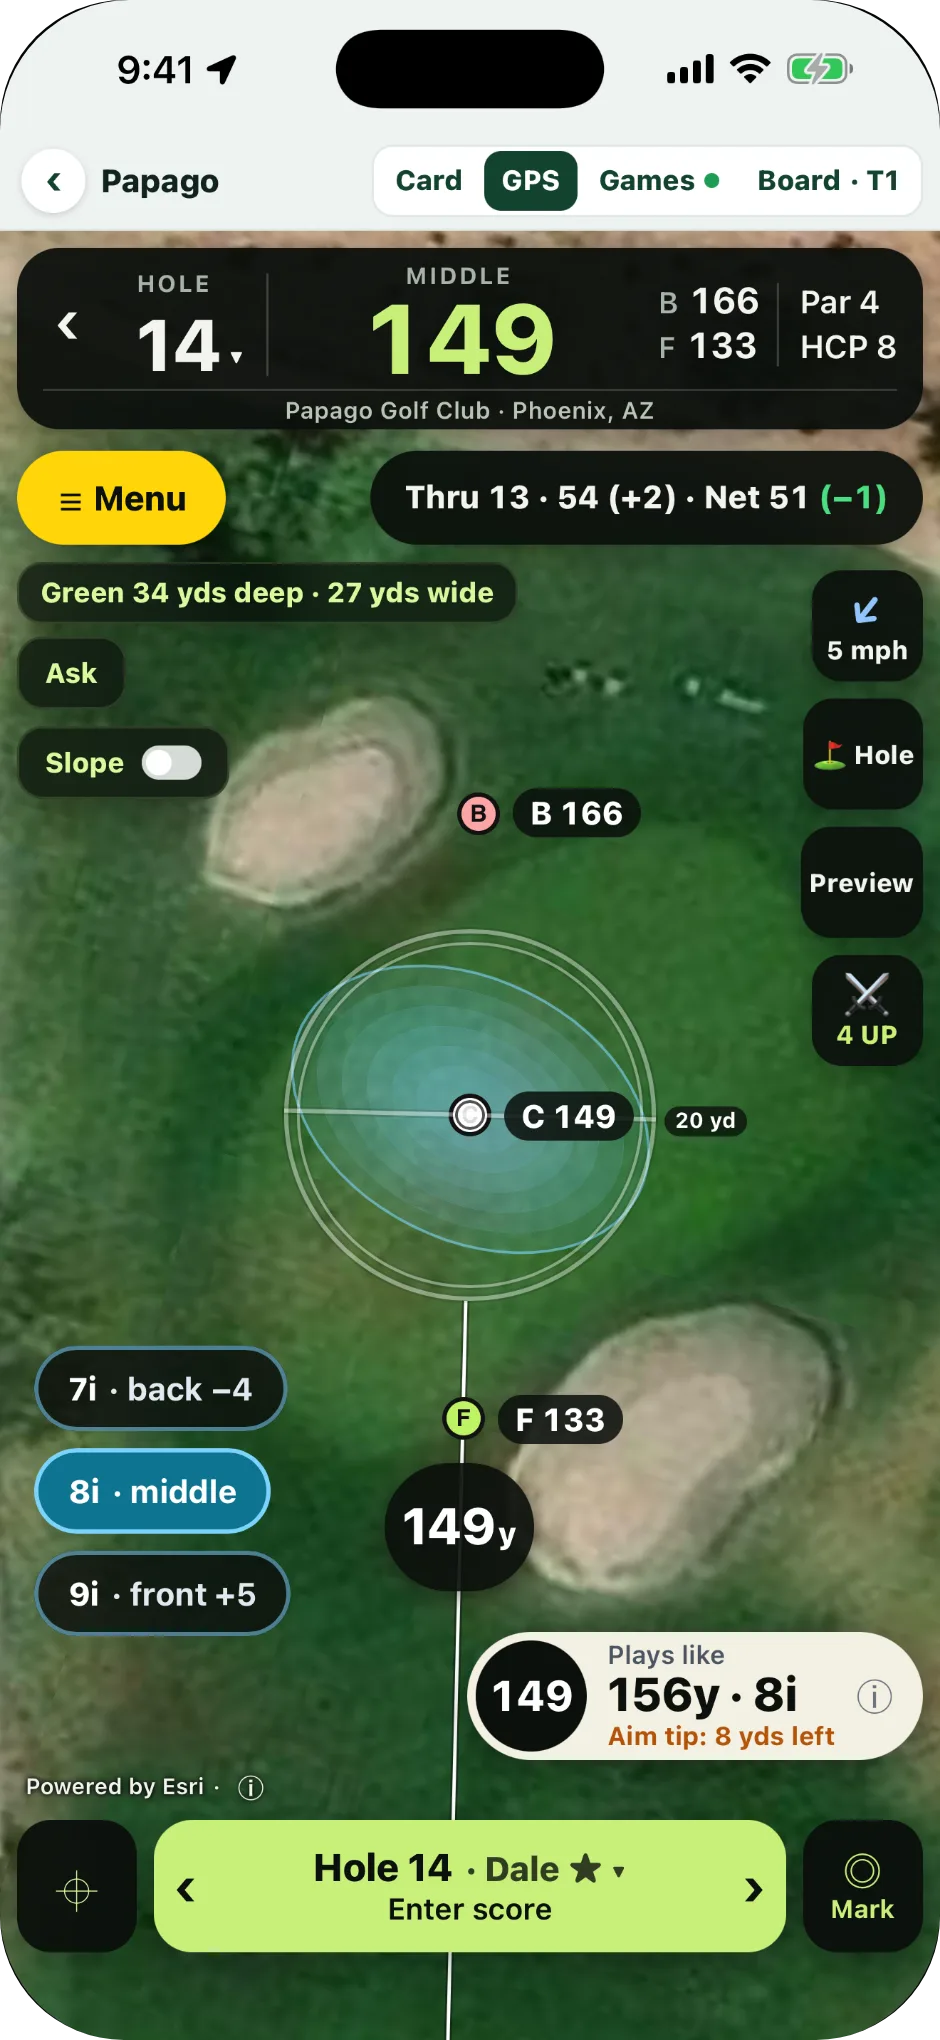
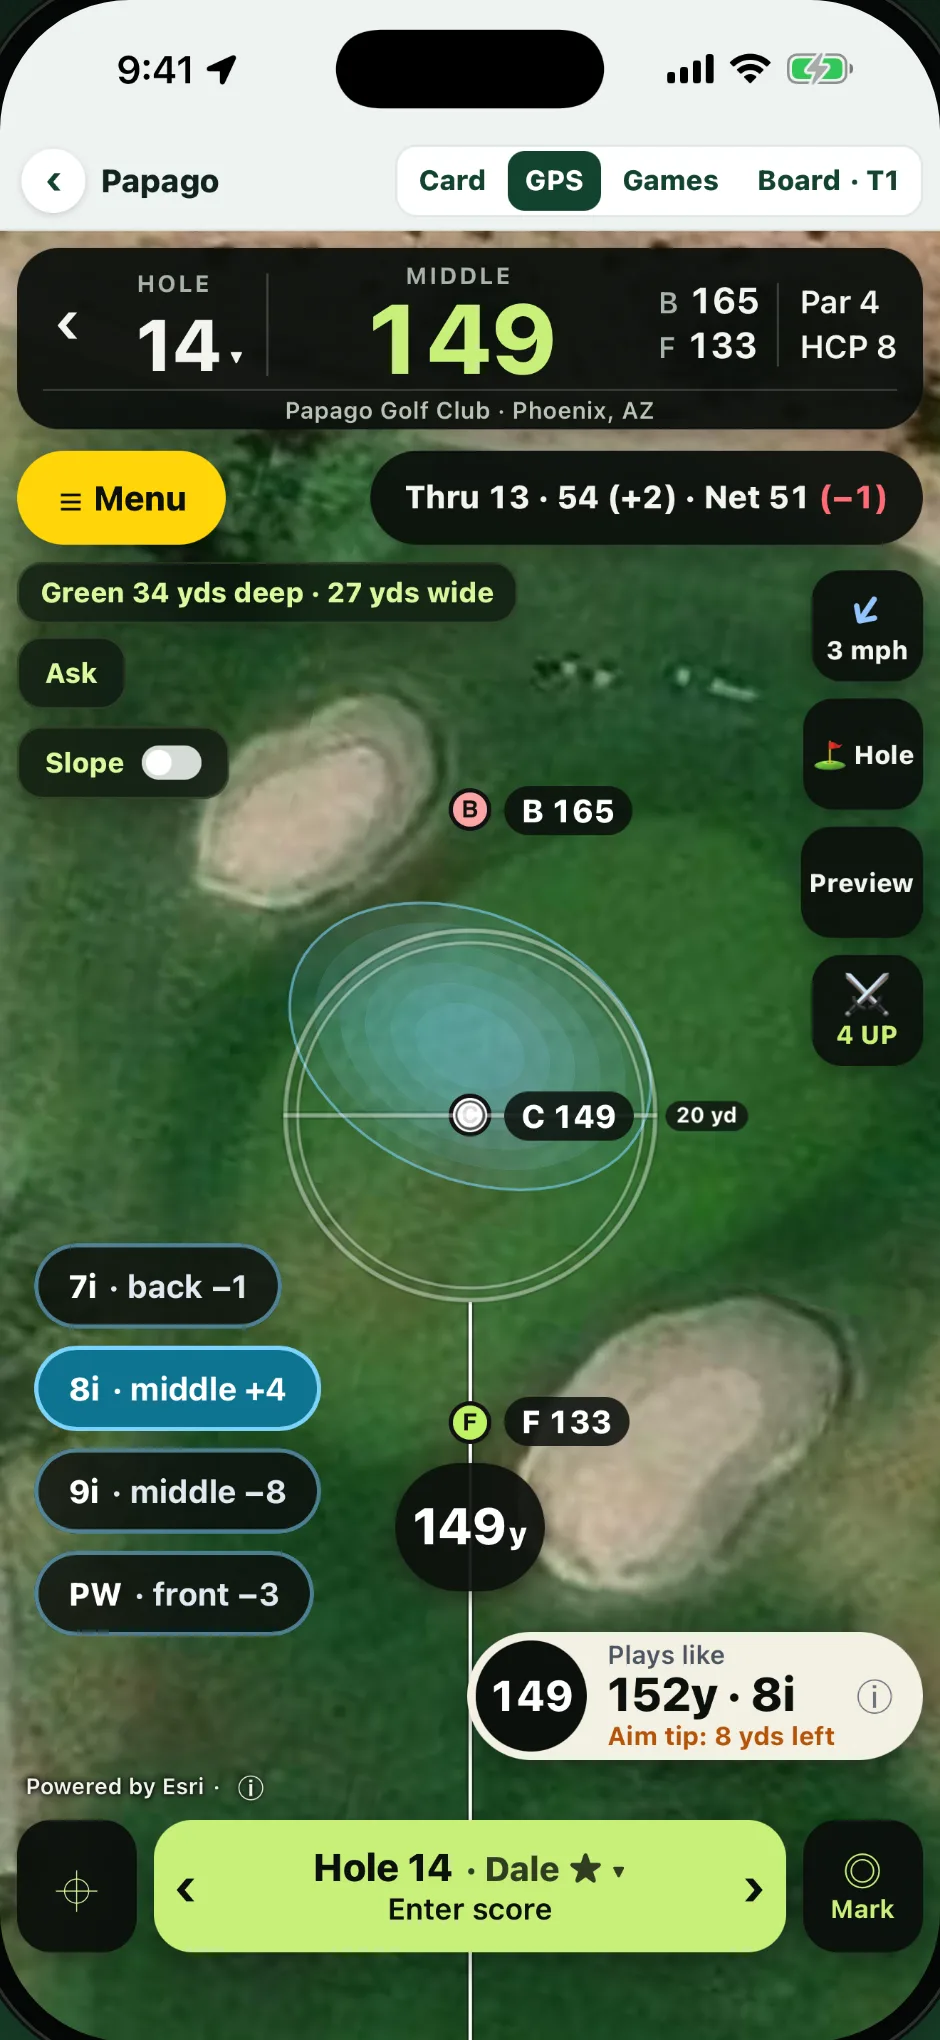
Old slope pictures replaced (Manny 2026-11-15 4:42 PM, ADVISOR-20261115-1643): green-slope, green-size and plays-like are the 2.0.8 App Store frames 07 (smooth slope, ring hidden) and 06 (aim tip), under par in red; alts and the screens manifest follow (the old entries kept under "previous")
The 2.0.7 frames drew the old blocky slope with the target ring over the arrows and Net 35 (-1) / Net 51 (-1) in green; the 2.0.7 web capture of plays-like showed Net 3 (-2) in green. The site shows under par in red only. green-size and plays-like share the 06 frame until a 2.0.8 web capture exists. Still green and not yet replaced (no 2.0.8 picture covers them): ask-caddie, group-scoring, hazards (2.0.7 web-app captures; need a 2.0.8 web capture session).
hardpan-home.html is not in sw.js's shell list: no cache bump. Guards: web_e_features 24/0, marketing_home 46/0, hardpan_home_52a 7/0, web_e_features_chrome 6/0.

diff --git a/hardpan-home.html b/hardpan-home.html
@@ -522,14 +522,14 @@
     <div class="grp" id="g-new">
         <div class="ghd"><h2>New in 2.0.7</h2><span class="gn">4 &middot; swipe &rarr;</span><span class="arrows"><button type="button" class="ga" data-dir="-1" aria-label="New in 2.0.7: earlier cards">&lsaquo;</button><button type="button" class="ga" data-dir="1" aria-label="New in 2.0.7: more cards">&rsaquo;</button></span></div>
         <p class="gln">What changed in this update.</p>
-        <ul class="row" aria-label="New in 2.0.7 features"><li class="fc" id="f-round-tabs" data-key="round-tabs"><div class="cap"><span class="eb">ROUND TABS</span><h3>Card, GPS, Games, Board.</h3><p>Four tabs on top of every round. The map opens on the whole hole.</p></div><button type="button" class="ph" data-open="round-tabs" aria-label="See Card, GPS, Games, Board full screen"><span class="s"><img src="/media/screens/round-tabs-400.webp" srcset="/media/screens/round-tabs-400.webp 400w, /media/screens/round-tabs-940.webp 940w" sizes="(max-width:700px) 200px, 206px" width="940" height="2040" loading="lazy" decoding="async" alt="The GPS map on hole 2 at Papago, opened on the whole hole with the tee and the green both on screen: 380 to the middle, and the Card, GPS, Games and Board tabs on top."></span></button></li><li class="fc" id="f-green-slope" data-key="green-slope"><div class="cap"><span class="eb">GREEN SLOPE</span><h3>Read the green.</h3><p>Shading, contours and downhill arrows on the map, with the Slope switch under Ask.</p></div><button type="button" class="ph" data-open="green-slope" aria-label="See Read the green full screen"><span class="s"><img src="/media/screens/green-slope-400.webp" srcset="/media/screens/green-slope-400.webp 400w, /media/screens/green-slope-940.webp 940w" sizes="(max-width:700px) 200px, 206px" width="940" height="2040" loading="lazy" decoding="async" alt="Papago hole 10 near the green with Slope on: shading and contours on the green, arrows that run downhill, 55 to the middle, and the Slope switch under Ask."></span></button></li><li class="fc" id="f-green-size" data-key="green-size"><div class="cap"><span class="eb">GREEN SIZE</span><h3>How big is the green?</h3><p>Deep and wide along your line of play, the same from the tee or the fairway.</p></div><button type="button" class="ph" data-open="green-size" aria-label="See How big is the green? full screen"><span class="s"><img src="/media/screens/green-size-400.webp" srcset="/media/screens/green-size-400.webp 400w, /media/screens/green-size-940.webp 940w" sizes="(max-width:700px) 200px, 206px" width="940" height="2040" loading="lazy" decoding="async" alt="Papago hole 14, 149 to the middle: the line Green 34 yds deep and 27 yds wide on the map, and Plays like 156 with an 8-iron."></span></button></li><li class="fc" id="f-team-card" data-key="team-card"><div class="cap"><span class="eb">TEAM CARD</span><h3>Your team card, in the app.</h3><p>Card, Board and GPS on one card. Scan your team’s QR right in HardPan.</p></div><button type="button" class="ph" data-open="team-card" aria-label="See Your team card, in the app full screen"><span class="s"><img src="/media/screens/team-card-400.webp" srcset="/media/screens/team-card-400.webp 400w, /media/screens/team-card-940.webp 940w" sizes="(max-width:700px) 200px, 206px" width="940" height="2040" loading="lazy" decoding="async" alt="The Desert Classic team card for Team 4 in the app: the Card, Board and GPS switch, Hole 8 · Par 5 next to play, the team score with minus and plus, and Save · Next hole."></span></button></li></ul>
+        <ul class="row" aria-label="New in 2.0.7 features"><li class="fc" id="f-round-tabs" data-key="round-tabs"><div class="cap"><span class="eb">ROUND TABS</span><h3>Card, GPS, Games, Board.</h3><p>Four tabs on top of every round. The map opens on the whole hole.</p></div><button type="button" class="ph" data-open="round-tabs" aria-label="See Card, GPS, Games, Board full screen"><span class="s"><img src="/media/screens/round-tabs-400.webp" srcset="/media/screens/round-tabs-400.webp 400w, /media/screens/round-tabs-940.webp 940w" sizes="(max-width:700px) 200px, 206px" width="940" height="2040" loading="lazy" decoding="async" alt="The GPS map on hole 2 at Papago, opened on the whole hole with the tee and the green both on screen: 380 to the middle, and the Card, GPS, Games and Board tabs on top."></span></button></li><li class="fc" id="f-green-slope" data-key="green-slope"><div class="cap"><span class="eb">GREEN SLOPE</span><h3>Read the green.</h3><p>Shading, contours and downhill arrows on the map, with the Slope switch under Ask.</p></div><button type="button" class="ph" data-open="green-slope" aria-label="See Read the green full screen"><span class="s"><img src="/media/screens/green-slope-400.webp" srcset="/media/screens/green-slope-400.webp 400w, /media/screens/green-slope-940.webp 940w" sizes="(max-width:700px) 200px, 206px" width="940" height="2040" loading="lazy" decoding="async" alt="Papago hole 10 near the green with Slope on: smooth shading, contour lines and arrows that run downhill, the target ring hidden, 55 to the middle, Thru 9 · 38 (+2) · Net 35 (−1) with the under-par number in red, and the Slope switch under Ask."></span></button></li><li class="fc" id="f-green-size" data-key="green-size"><div class="cap"><span class="eb">GREEN SIZE</span><h3>How big is the green?</h3><p>Deep and wide along your line of play, the same from the tee or the fairway.</p></div><button type="button" class="ph" data-open="green-size" aria-label="See How big is the green? full screen"><span class="s"><img src="/media/screens/green-size-400.webp" srcset="/media/screens/green-size-400.webp 400w, /media/screens/green-size-940.webp 940w" sizes="(max-width:700px) 200px, 206px" width="940" height="2040" loading="lazy" decoding="async" alt="Papago hole 14, 149 to the middle: the line Green 34 yds deep and 27 yds wide on the map, Plays like 152 with an 8-iron, and Net 51 (−1) in red."></span></button></li><li class="fc" id="f-team-card" data-key="team-card"><div class="cap"><span class="eb">TEAM CARD</span><h3>Your team card, in the app.</h3><p>Card, Board and GPS on one card. Scan your team’s QR right in HardPan.</p></div><button type="button" class="ph" data-open="team-card" aria-label="See Your team card, in the app full screen"><span class="s"><img src="/media/screens/team-card-400.webp" srcset="/media/screens/team-card-400.webp 400w, /media/screens/team-card-940.webp 940w" sizes="(max-width:700px) 200px, 206px" width="940" height="2040" loading="lazy" decoding="async" alt="The Desert Classic team card for Team 4 in the app: the Card, Board and GPS switch, Hole 8 · Par 5 next to play, the team score with minus and plus, and Save · Next hole."></span></button></li></ul>
         <div class="dots" aria-hidden="true"><i class="on"></i><i></i><i></i><i></i></div>
         <ul class="new207" aria-label="Also new in 2.0.7"><li><b>Why?</b> on the suggested fair game: the strokes, the handicaps and the game it is built on.</li><li><b>Undo</b> on the scorecard, right after each score.</li><li>A <b>Season board</b> for your weekly group, on Home.</li><li><b>Play in this event</b> on the card of an event you run.</li><li>The Home card names the course and the next hole.</li></ul>
     </div>
     <div class="grp" id="g-play">
         <div class="ghd"><h2>Play</h2><span class="gn">6 &middot; swipe &rarr;</span><span class="arrows"><button type="button" class="ga" data-dir="-1" aria-label="Play: earlier cards">&lsaquo;</button><button type="button" class="ga" data-dir="1" aria-label="Play: more cards">&rsaquo;</button></span></div>
         <p class="gln">GPS that knows the course, and your clubs.</p>
-        <ul class="row" aria-label="Play features"><li class="fc" id="f-gps" data-key="gps"><div class="cap"><span class="eb">GPS</span> <span class="clipchip">&#9654; clip 0:03</span><h3>Every yard. Every hole.</h3><p>Front, middle and back of every green on a real satellite map.</p></div><button type="button" class="ph" data-open="gps" aria-label="See Every yard. Every hole full screen"><span class="s clipslot"><img src="/media/screens/gps-400.webp" srcset="/media/screens/gps-400.webp 400w, /media/screens/gps-886.webp 886w" sizes="(max-width:700px) 200px, 206px" width="886" height="1920" loading="lazy" decoding="async" alt="The HardPan GPS map on hole 1 at Talking Stick, the whole hole from the tee: 397 yards to the middle of the green with the back and front numbers, and Card, GPS, Games and Board tabs on top."><video muted playsinline preload="none" data-src="/media/clips/gps.mp4" aria-hidden="true"></video><span class="cb">&#9654; 0:03</span></span></button></li><li class="fc" id="f-plays-like" data-key="plays-like"><div class="cap"><span class="eb">PLAYS LIKE</span><h3>Hit the number it plays.</h3><p>Wind and elevation in one yardage, plus an aim tip from your own misses.</p></div><button type="button" class="ph" data-open="plays-like" aria-label="See Hit the number it plays full screen"><span class="s"><img src="/media/screens/plays-like-400.webp" srcset="/media/screens/plays-like-400.webp 400w, /media/screens/plays-like-940.webp 940w" sizes="(max-width:700px) 200px, 206px" width="940" height="2040" loading="lazy" decoding="async" alt="The GPS map on hole 2 at Dobson Ranch: 140 to the middle, Plays like 140 with a 9-iron and the aim tip 8 yards left, the green’s size line, and the Slope switch under Ask."></span></button></li><li class="fc" id="f-hazards" data-key="hazards"><div class="cap"><span class="eb">HAZARDS</span><h3>Know what you can carry.</h3><p>Reach and carry for every bunker, and where to lay up, from where you stand.</p></div><button type="button" class="ph" data-open="hazards" aria-label="See Know what you can carry full screen"><span class="s"><img src="/media/screens/hazards-400.webp" srcset="/media/screens/hazards-400.webp 400w, /media/screens/hazards-1170.webp 1170w" sizes="(max-width:700px) 200px, 206px" width="1170" height="2532" loading="lazy" decoding="async" alt="The Hazards sheet on hole 1 at Talking Stick, over the GPS map: reach and carry yards for the bunker left and the water right, and lay-up distances with a club for each."></span></button></li><li class="fc" id="f-best-miss" data-key="best-miss"><div class="cap"><span class="eb">BEST MISS</span><h3>Miss on the right side.</h3><p>Green slope from lidar, and the safe side to miss.</p></div><button type="button" class="ph" data-open="best-miss" aria-label="See Miss on the right side full screen"><span class="s"><img src="/media/screens/best-miss-400.webp" srcset="/media/screens/best-miss-400.webp 400w, /media/screens/best-miss-940.webp 940w" sizes="(max-width:700px) 200px, 206px" width="940" height="2040" loading="lazy" decoding="async" alt="The GPS map on Papago’s first green with Slope on: the green’s slope arrows and shading, 41 to the middle, carry bunker 43, and Best miss: right."></span></button></li><li class="fc" id="f-offline" data-key="offline"><div class="cap"><span class="eb">OFFLINE MAPS</span><h3>No signal? Still every yard.</h3><p>Save a course before you go. The map works with zero bars.</p></div><button type="button" class="ph" data-open="offline" aria-label="See No signal? Still every yard full screen"><span class="s"><img src="/media/screens/offline-400.webp" srcset="/media/screens/offline-400.webp 400w, /media/screens/offline-780.webp 780w" sizes="(max-width:700px) 200px, 206px" width="780" height="1704" loading="lazy" decoding="async" alt="The course picker with a Download for offline button for Dobson Ranch Golf Course."></span></button></li><li class="fc" id="f-bag" data-key="my-bag"><div class="cap"><span class="eb">MY BAG</span><h3>Your real carries.</h3><p>Type your yardages once. HardPan picks the club from them.</p></div><button type="button" class="ph" data-open="my-bag" aria-label="See Your real carries full screen"><span class="s"><img src="/media/screens/my-bag-400.webp" srcset="/media/screens/my-bag-400.webp 400w, /media/screens/my-bag-1170.webp 1170w" sizes="(max-width:700px) 200px, 206px" width="1170" height="2532" loading="lazy" decoding="async" alt="My bag for Sam: a carry yardage for each club, Driver 245, 3-wood 225, 5-wood 210, with a switch to keep each club in the bag and Type my carries."></span></button></li></ul>
+        <ul class="row" aria-label="Play features"><li class="fc" id="f-gps" data-key="gps"><div class="cap"><span class="eb">GPS</span> <span class="clipchip">&#9654; clip 0:03</span><h3>Every yard. Every hole.</h3><p>Front, middle and back of every green on a real satellite map.</p></div><button type="button" class="ph" data-open="gps" aria-label="See Every yard. Every hole full screen"><span class="s clipslot"><img src="/media/screens/gps-400.webp" srcset="/media/screens/gps-400.webp 400w, /media/screens/gps-886.webp 886w" sizes="(max-width:700px) 200px, 206px" width="886" height="1920" loading="lazy" decoding="async" alt="The HardPan GPS map on hole 1 at Talking Stick, the whole hole from the tee: 397 yards to the middle of the green with the back and front numbers, and Card, GPS, Games and Board tabs on top."><video muted playsinline preload="none" data-src="/media/clips/gps.mp4" aria-hidden="true"></video><span class="cb">&#9654; 0:03</span></span></button></li><li class="fc" id="f-plays-like" data-key="plays-like"><div class="cap"><span class="eb">PLAYS LIKE</span><h3>Hit the number it plays.</h3><p>Wind and elevation in one yardage, plus an aim tip from your own misses.</p></div><button type="button" class="ph" data-open="plays-like" aria-label="See Hit the number it plays full screen"><span class="s"><img src="/media/screens/plays-like-400.webp" srcset="/media/screens/plays-like-400.webp 400w, /media/screens/plays-like-940.webp 940w" sizes="(max-width:700px) 200px, 206px" width="940" height="2040" loading="lazy" decoding="async" alt="The GPS map on hole 14 at Papago: 149 to the middle, Plays like 152 with an 8-iron and the aim tip 8 yards left, the club chips, the green’s size line, the Slope switch under Ask, and Net 51 (−1) in red."></span></button></li><li class="fc" id="f-hazards" data-key="hazards"><div class="cap"><span class="eb">HAZARDS</span><h3>Know what you can carry.</h3><p>Reach and carry for every bunker, and where to lay up, from where you stand.</p></div><button type="button" class="ph" data-open="hazards" aria-label="See Know what you can carry full screen"><span class="s"><img src="/media/screens/hazards-400.webp" srcset="/media/screens/hazards-400.webp 400w, /media/screens/hazards-1170.webp 1170w" sizes="(max-width:700px) 200px, 206px" width="1170" height="2532" loading="lazy" decoding="async" alt="The Hazards sheet on hole 1 at Talking Stick, over the GPS map: reach and carry yards for the bunker left and the water right, and lay-up distances with a club for each."></span></button></li><li class="fc" id="f-best-miss" data-key="best-miss"><div class="cap"><span class="eb">BEST MISS</span><h3>Miss on the right side.</h3><p>Green slope from lidar, and the safe side to miss.</p></div><button type="button" class="ph" data-open="best-miss" aria-label="See Miss on the right side full screen"><span class="s"><img src="/media/screens/best-miss-400.webp" srcset="/media/screens/best-miss-400.webp 400w, /media/screens/best-miss-940.webp 940w" sizes="(max-width:700px) 200px, 206px" width="940" height="2040" loading="lazy" decoding="async" alt="The GPS map on Papago’s first green with Slope on: the green’s slope arrows and shading, 41 to the middle, carry bunker 43, and Best miss: right."></span></button></li><li class="fc" id="f-offline" data-key="offline"><div class="cap"><span class="eb">OFFLINE MAPS</span><h3>No signal? Still every yard.</h3><p>Save a course before you go. The map works with zero bars.</p></div><button type="button" class="ph" data-open="offline" aria-label="See No signal? Still every yard full screen"><span class="s"><img src="/media/screens/offline-400.webp" srcset="/media/screens/offline-400.webp 400w, /media/screens/offline-780.webp 780w" sizes="(max-width:700px) 200px, 206px" width="780" height="1704" loading="lazy" decoding="async" alt="The course picker with a Download for offline button for Dobson Ranch Golf Course."></span></button></li><li class="fc" id="f-bag" data-key="my-bag"><div class="cap"><span class="eb">MY BAG</span><h3>Your real carries.</h3><p>Type your yardages once. HardPan picks the club from them.</p></div><button type="button" class="ph" data-open="my-bag" aria-label="See Your real carries full screen"><span class="s"><img src="/media/screens/my-bag-400.webp" srcset="/media/screens/my-bag-400.webp 400w, /media/screens/my-bag-1170.webp 1170w" sizes="(max-width:700px) 200px, 206px" width="1170" height="2532" loading="lazy" decoding="async" alt="My bag for Sam: a carry yardage for each club, Driver 245, 3-wood 225, 5-wood 210, with a switch to keep each club in the bag and Type my carries."></span></button></li></ul>
         <div class="dots" aria-hidden="true"><i class="on"></i><i></i><i></i><i></i><i></i><i></i></div>
     </div>
     <div class="wrap trywrap"><section class="try" id="try-gps" aria-labelledby="try-gps-h">
